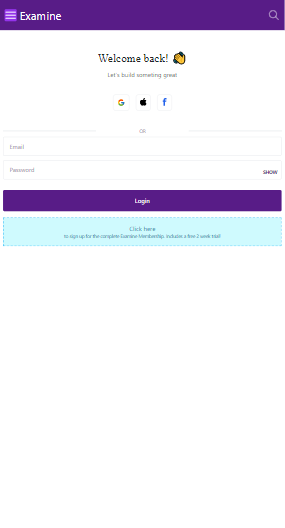
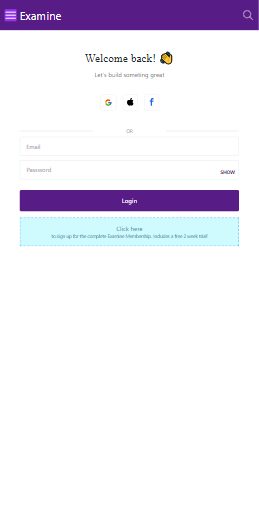
modified login and signup

diff --git a/pages/Signup.js b/pages/Signup.js
@@ -19,7 +19,7 @@ const [password, setPassword] = useState("")
       <main className="flex flex-col items-center justify-center
       w-full flex-1 lg:px-20 md:px-20 sm:px-1 bg-white">
         <div className="bg-white w-full lg:w-3/5 md:2/5 lg:mx-auto md:mx-auto sm:h-screen
-        lg:rounded-xl md:rounded-xl lg:px-24 lg:py-4 lg:shadow-lg md:shadow-lg sm:shadow-none sm:px-1 sm:mt-7">
+        lg:rounded-xl md:rounded-xl lg:px-24 lg:py-4 lg:shadow-lg md:shadow-lg sm:shadow-none sm:px-12 sm:mt-7">
           <div className="text-center m-7 ">
             <h2 className="my-3 text-3xl text-[#212529]
             font-lora font-medium">Create your account</h2>

diff --git a/pages/index.js b/pages/index.js
@@ -17,7 +17,7 @@ export default function Home() {
       <main className="flex flex-col items-center justify-center
       w-full flex-1 lg:px-20 md:px-20 sm:px-1 bg-white">
         <div className="bg-white w-full lg:w-3/5 md:2/5 lg:mx-auto md:mx-auto sm:h-screen
-        lg:rounded-xl md:rounded-xl lg:px-24 lg:py-4 lg:shadow-lg md:shadow-lg sm:shadow-none sm:px-1 sm:mt-7">
+        lg:rounded-xl md:rounded-xl lg:px-24 lg:py-4 lg:shadow-lg md:shadow-lg sm:shadow-none sm:mt-7 sm:px-12">
           <div className="text-center m-7 ">
             <h2 className="my-3 text-3xl text-[#212529]
             font-lora font-medium">Welcome back! 👋</h2>
